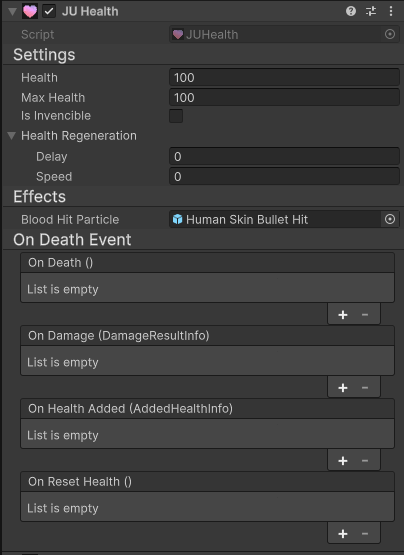
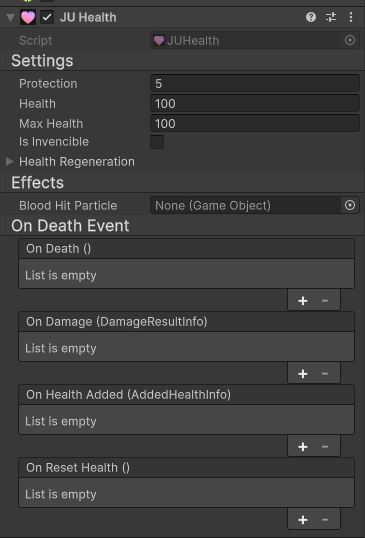
health doc update

diff --git a/source/ju/features/health.rst b/source/ju/features/health.rst
@@ -37,6 +37,11 @@ commonly used by characters, enemies, and any object that can receive damage.
 It is responsible for controlling the current health value, the maximum health, and determining
 whether the object is alive or dead.
 
+Protection
+~~~~~~~~~~
+
+A damage reduction amount. Useful for simple shields when the damage must be decreased or blocked.
+
 Health and Max Health
 ~~~~~~~~~~~~~~~~~~~~~
 
@@ -254,6 +259,53 @@ While invincible, all incoming damage is ignored.
    This guarantees compatibility with custom health systems and
    keeps systems decoupled and reusable.
 
+Damage Protection
+^^^^^^^^^^^^^^^^^
+
+``IHealth`` exposes a **Protection** property that represents a **flat damage reduction value**.
+
+Protection reduces incoming damage **before it is applied to health**, acting as a simple and permanent
+damage mitigation layer.
+
+- Protection is applied automatically by the health system
+- It reduces damage by a fixed amount
+- It never heals or increases health
+- Damage will never go below zero
+
+Example:
+
+- Incoming damage: ``30``
+- Protection: ``10``
+- Final damage applied: ``20``
+
+If Protection is greater than or equal to the incoming damage, the damage is blocked.
+
+Setting Protection
+..................
+
+Protection can be set directly on the health system:
+
+.. code-block:: csharp
+
+   IHealth health = GetComponent<IHealth>();
+   health.Protection = 15f;
+
+This value can be changed at runtime to represent:
+
+- Natural armor
+- Shields
+- Difficulty scaling
+- Passive buffs or debuffs
+
+Protection vs Damage Modifiers
+..............................
+
+Protection is a **simple flat reduction** applied by the health system itself.
+
+For more complex behavior (percentage reduction, conditional armor, elemental resistance, buffs, debuffs),
+use ``SubscribeOnBeforeDamaged`` instead.
+
+Both systems can be used together when needed.
 
 Damage Score
 ^^^^^^^^^^^^
